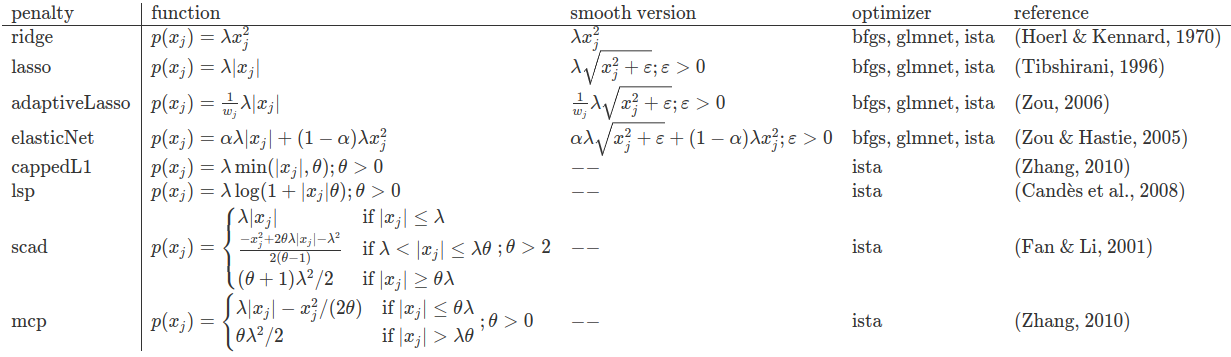
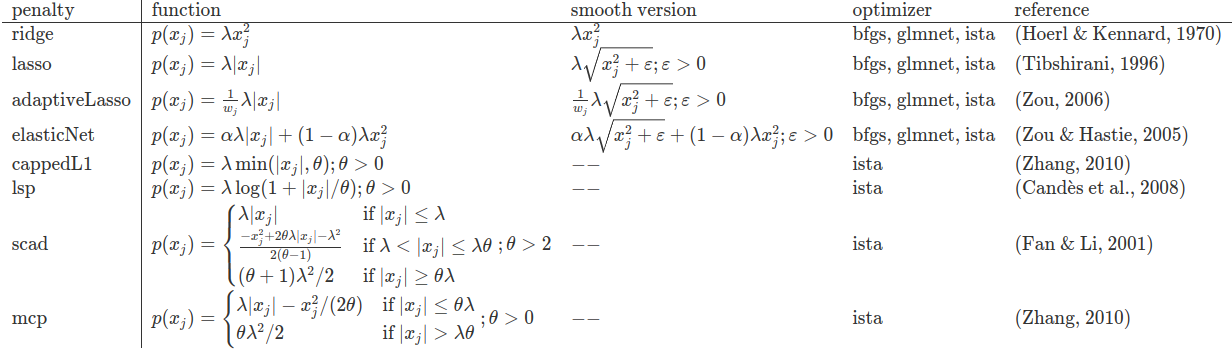
fixed error in lsp definition

diff --git a/README.md b/README.md
@@ -230,17 +230,17 @@ Finally, we can extract the best parameters:
 ``` r
 coef(lassoFit, criterion = "BIC")
 #>      lambda alpha ind60=~x2 ind60=~x3       a1       b1       c1 dem60~ind60
-#> 9 0.2128335     1  2.179657   1.81821 1.190778 1.174537 1.250975    1.471333
-#>   dem65~ind60 dem65~dem60    y1~~y5   y2~~y4   y2~~y6    y3~~y7    y4~~y8
-#> 9   0.6004788   0.8650411 0.5825327 1.440146 2.183018 0.7115774 0.3628155
-#>     y6~~y8     x1~~x1    x2~~x2    x3~~x3   y1~~y1   y2~~y2   y3~~y3   y4~~y4
-#> 9 1.371799 0.08138774 0.1204276 0.4666599 1.854633 7.581369 4.955664 3.224511
-#>     y5~~y5   y6~~y6  y7~~y7   y8~~y8 ind60~~ind60 dem60~~dem60 dem65~~dem65
-#> 9 2.313031 4.968202 3.56004 3.307712    0.4485989     3.875342    0.1644624
-#>       x1~1     x2~1    x3~1     y1~1     y2~1    y3~1     y4~1     y5~1
-#> 9 5.054384 4.792195 3.55769 5.464667 4.256443 6.56311 4.452533 5.136252
-#>       y6~1     y7~1    y8~1 delta_a2 delta_b2 delta_c2
-#> 9 2.978074 6.196264 4.04339        0        0        0
+#> 10 0.210519     1  2.179657   1.81821 1.190781 1.174538 1.250977    1.471333
+#>    dem65~ind60 dem65~dem60   y1~~y5   y2~~y4   y2~~y6    y3~~y7    y4~~y8
+#> 10   0.6004776   0.8650408 0.582538 1.440134 2.183012 0.7115808 0.3628105
+#>      y6~~y8     x1~~x1    x2~~x2    x3~~x3  y1~~y1   y2~~y2   y3~~y3   y4~~y4
+#> 10 1.371791 0.08138772 0.1204276 0.4666599 1.85464 7.581351 4.955668 3.224502
+#>      y5~~y5   y6~~y6  y7~~y7   y8~~y8 ind60~~ind60 dem60~~dem60 dem65~~dem65
+#> 10 2.313037 4.968193 3.56004 3.307703    0.4485989     3.875338    0.1644645
+#>        x1~1     x2~1    x3~1     y1~1     y2~1    y3~1     y4~1     y5~1
+#> 10 5.054384 4.792195 3.55769 5.464667 4.256443 6.56311 4.452533 5.136252
+#>        y6~1     y7~1    y8~1 delta_a2 delta_b2 delta_c2
+#> 10 2.978074 6.196264 4.04339        0        0        0
 ```
 
 As all differences (`delta_a2`, `delta_b2`, and `delta_c2`) have been

diff --git a/man/figures/penalty_functions.md b/man/figures/penalty_functions.md
@@ -7,7 +7,7 @@ $$
 \text{adaptiveLasso} & p( x_j) = \frac{1}{w_j}\lambda| x_j| & \frac{1}{w_j}\lambda\sqrt{ x_j^2 + \varepsilon}; \varepsilon > 0 & \text{bfgs, glmnet, ista} & \text{(Zou, 2006)}\\
 \text{elasticNet} & p( x_j) = \alpha\lambda| x_j| + (1-\alpha)\lambda x_j^2 & \alpha\lambda\sqrt{ x_j^2 + \varepsilon} + (1-\alpha)\lambda x_j^2; \varepsilon > 0 & \text{bfgs, glmnet, ista} & \text{(Zou \& Hastie, 2005)}\\
 \text{cappedL1} & p( x_j) = \lambda \min(| x_j|, \theta); \theta > 0 & -- & \text{ista} & \text{(Zhang, 2010)}\\
-\text{lsp} & p( x_j) = \lambda \log(1 + |x_j|\theta); \theta > 0 & -- & \text{ista} & \text{(Candès et al., 2008)} \\
+\text{lsp} & p( x_j) = \lambda \log(1 + |x_j|/\theta); \theta > 0 & -- & \text{ista} & \text{(Candès et al., 2008)} \\
 \text{scad} & p( x_j) = \begin{cases}
 \lambda |x_j| & \text{if } |x_j| \leq \lambda\\
 \frac{-x_j^2 + 2\theta\lambda |x_j| - \lambda^2}{2(\theta -1)} & \text{if } \lambda < |x_j| \leq \lambda\theta \\
